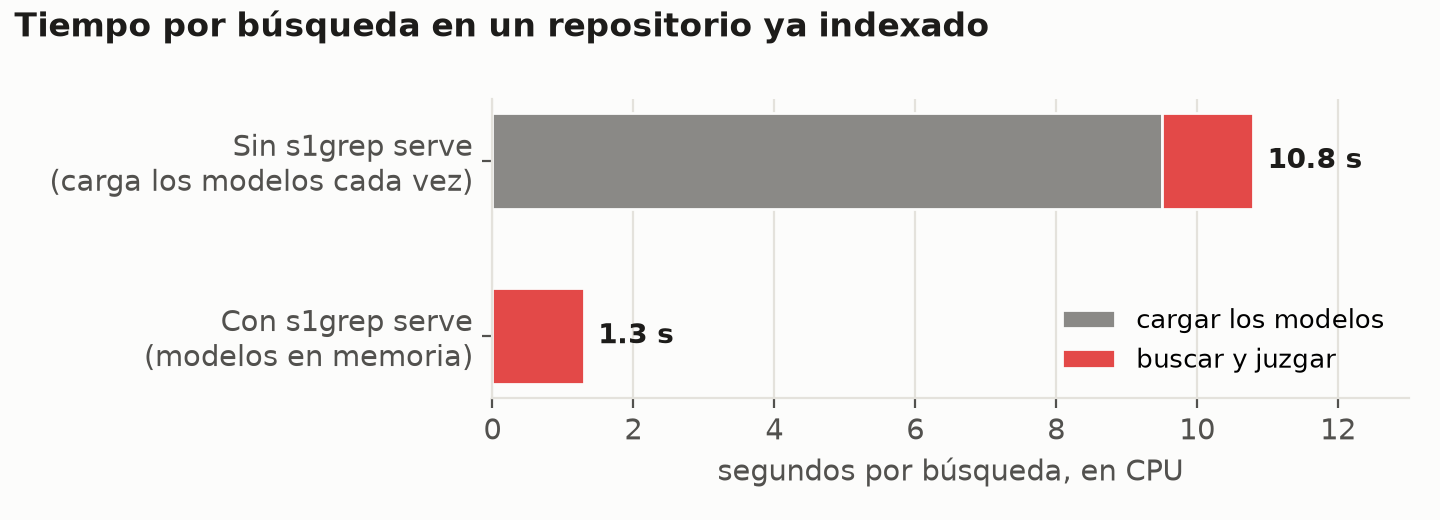
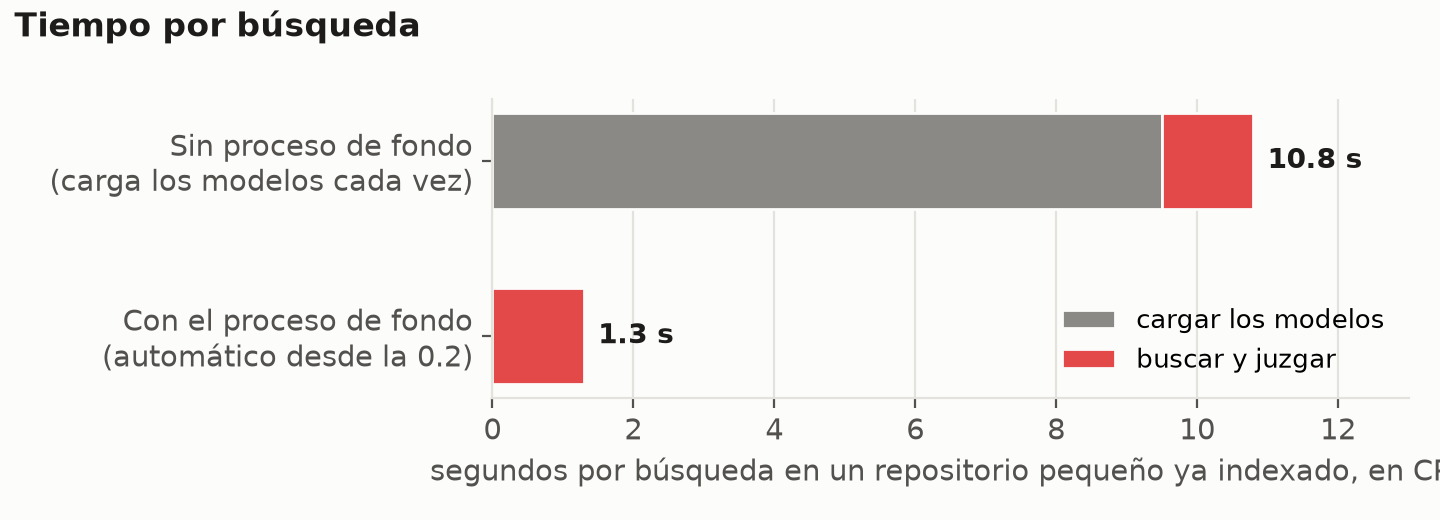
Blog: s1grep from prototype to product (0.2 to 0.5), rejected experiments, and a plainer note on the method

diff --git a/src/data/blog.ts b/src/data/blog.ts
@@ -17,10 +17,10 @@ export const ARTICULOS: Articulo[] = [
     slug: 's1-code-y-s1grep',
     titulo: 'De Laya a s1-code: entrené un modelo System One para buscar código y construí s1grep',
     resumen:
-      'Mi primer modelo entrenado, contado como un proceso de aprendizaje: tres versiones, 18 pasos medidos y un buscador local en Rust que encuentra el código por lo que hace, en inglés y en español, sin enviar nada a la nube.',
+      'Mi primer modelo entrenado, con todo medido: tres versiones de s1-code y un buscador local en Rust, s1grep, que encuentra el código por lo que hace en nueve lenguajes, en inglés y en español, sin enviar nada a la nube.',
     fecha: '2026-10-01',
     fechaTexto: '1 de octubre de 2026',
-    lectura: '18 min de lectura',
+    lectura: '24 min de lectura',
     etiquetas: ['IA', 'Modelos propios', 'Rust', 'Investigación'],
   },
 ];
@@ -32,5 +32,6 @@ export const ENLACES_S1 = {
   modeloV2: 'https://huggingface.co/api-service-sac/s1-code-v2',
   modeloV1: 'https://huggingface.co/api-service-sac/s1-code-v1',
   granite: 'https://huggingface.co/api-service-sac/granite-embedding-278m-multilingual-onnx',
+  graniteSmall: 'https://huggingface.co/api-service-sac/granite-embedding-97m-multilingual-r2-onnx',
   organizacion: 'https://huggingface.co/api-service-sac',
 };
